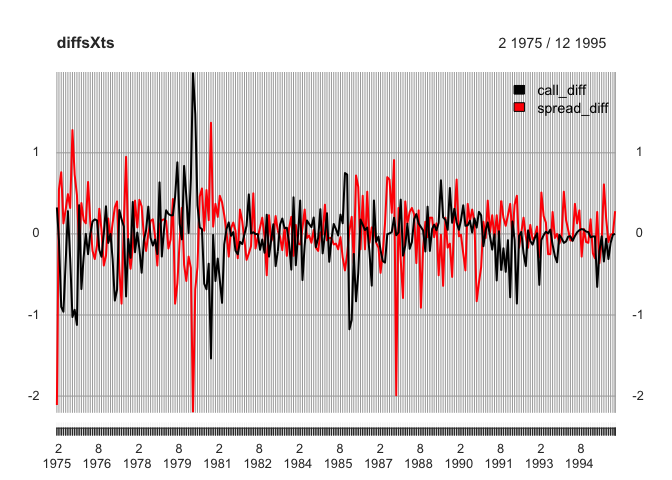
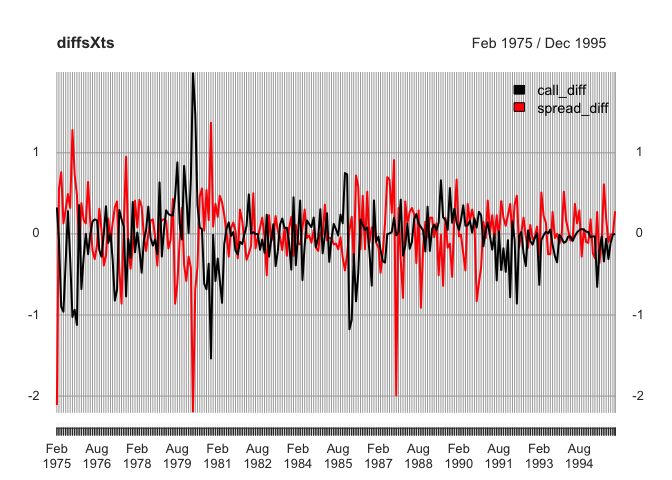
Adding data export

diff --git a/1.1_summaryStat/summaryStat.md b/1.1_summaryStat/summaryStat.md
@@ -37,6 +37,7 @@ dat<- read.csv("~/Documents/GitHub/Applied_TimeSeries_Analysis/dat/spreadCall.cs
   set_colnames(c('date','tenYearBond', 'TIBOR', 'call')) %>% 
   mutate(spread=tenYearBond-TIBOR) 
 datXts <- xts(dat[,c(4,5)], order.by = as.yearmon(dat[,1], format="%Y/%m"))
+saveRDS(datXts, "~/Documents/GitHub/Applied_TimeSeries_Analysis/dat/datXts.rds")
 ```
 
 ### Brief look at the data
@@ -53,19 +54,19 @@ plot.xts(datXts, legend.loc = 7)
 first(datXts, "3 months")
 ```
 
-    ##           call spread
-    ##  1 1975 12.674  -2.37
-    ##  2 1975 13.000  -4.48
-    ##  3 1975 12.920  -3.93
+    ##            call spread
+    ## Jan 1975 12.674  -2.37
+    ## Feb 1975 13.000  -4.48
+    ## Mar 1975 12.920  -3.93
 
 ``` r
 last(datXts, "3 months")
 ```
 
-    ##         call spread
-    ## 10 1995 0.41   2.29
-    ## 11 1995 0.40   2.29
-    ## 12 1995 0.40   2.57
+    ##          call spread
+    ## Oct 1995 0.41   2.29
+    ## Nov 1995 0.40   2.29
+    ## Dec 1995 0.40   2.57
 
 We can see from Figure that the series is likely to have serial correlation particulary in call series, and negative correlation between the two series.
 
@@ -243,6 +244,7 @@ Finally, I repeat the same steps, but this time for the first order difference, 
 diffsXts<- diff.xts(datXts) %>% 
   set_colnames(c("call_diff","spread_diff")) %>% 
   na.omit
+saveRDS(diffsXts, "~/Documents/GitHub/Applied_TimeSeries_Analysis/dat/diffsXts.rds")
 plot.xts(diffsXts,legend.loc = 7)
 ```
 
@@ -252,19 +254,19 @@ plot.xts(diffsXts,legend.loc = 7)
 first(diffsXts, "3 months")
 ```
 
-    ##         call_diff spread_diff
-    ##  2 1975     0.326       -2.11
-    ##  3 1975    -0.080        0.55
-    ##  4 1975    -0.900        0.76
+    ##          call_diff spread_diff
+    ## Feb 1975     0.326       -2.11
+    ## Mar 1975    -0.080        0.55
+    ## Apr 1975    -0.900        0.76
 
 ``` r
 last(diffsXts,"3 months")
 ```
 
-    ##         call_diff spread_diff
-    ## 10 1995     -0.11       -0.01
-    ## 11 1995     -0.01        0.00
-    ## 12 1995      0.00        0.28
+    ##          call_diff spread_diff
+    ## Oct 1995     -0.11       -0.01
+    ## Nov 1995     -0.01        0.00
+    ## Dec 1995      0.00        0.28
 
 Serial dependencies are clealy smaller or even insignificant from a vidual inspection.
 
